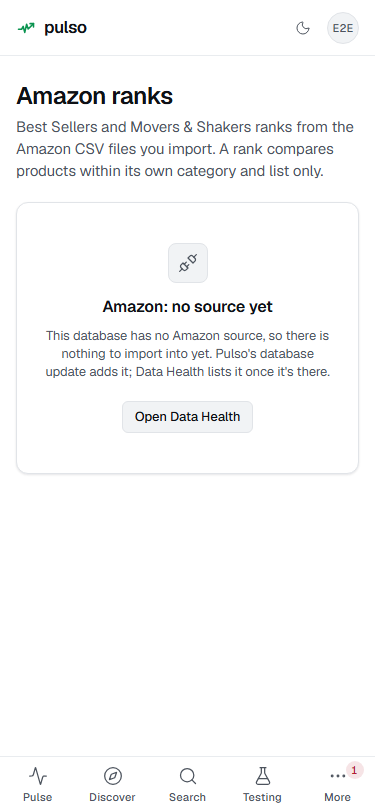
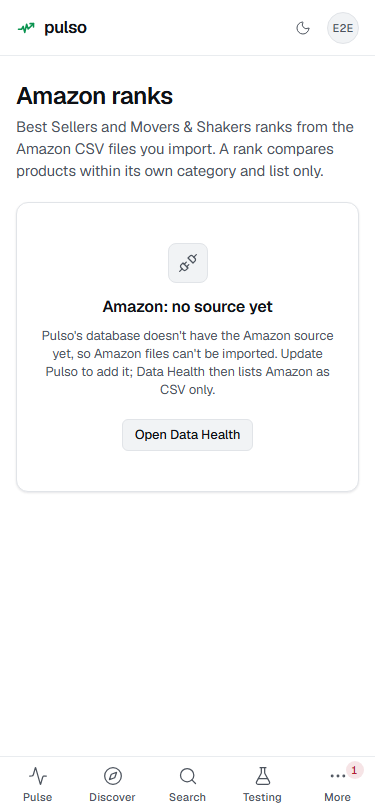
docs(p3-04): report checks after the rebase onto 60ba49d; no-source screenshots re-shot

Changed region(s): [[0.1173, 0.4002, 0.88, 0.5542]]

diff --git a/docs/reports/p3-04.md b/docs/reports/p3-04.md
@@ -26,7 +26,15 @@ Task `task_4c8b73c9065d` / `ctx_630116683c57`, branch `CodySpooner/p3-04-amazon-
 
 ## Checks
 
-CHECKS
+**After the rebase onto `60ba49d`** (p2-39's DEC-284 and p3-03 landed; the only conflict was `docs/DECISIONS.md`, both sides kept). With `TEST_DATABASE_URL` on a throwaway `pgvector/pgvector:0.8.7-pg18-trixie` container (`pulso-test-p3-04`, `127.0.0.1:55804`, database `pulso_test_p3_04`, removed afterwards):
+
+- full `uv run pytest` → **2,083 passed, 1 failed**: `test_api.py::test_openapi_export_deterministic` pins the operation count, 37 before this task; moved to 38 (`list_amazon_ranks`), then `test_api.py` → 43 passed. `test_amazon_ranks.py` → 15 passed; the provenance contract → 3 passed with `/v1/amazon` covered.
+- `uv run ruff check .`, `uv run ruff format --check .` → clean; `uv run mypy` and `uv run mypy --platform linux` → no issues in 214 source files; `alembic heads` → `0012` (no migration here).
+- `pnpm gen:api` → tree stays clean after the commit that regenerated `apps/api/openapi.json` and `schema.d.ts`.
+- `pnpm --filter web lint` and `pnpm --filter web typecheck` → exit 0; Vitest (all of `apps/web`) → 586 passed.
+- Playwright: `e2e/amazon` → 9 passed; screenshots → 28 passed (re-shot after the rebase; only the four no-source shots changed, from the copy fix); `sidebar-focus` and `palette` → passed (54 in that run, all green). A full chromium run after the rebase passed every test up to #310 of ~510 (`admin-ui` through `p2-39`, including `amazon`, `google-popular`, `discover`, `data-health`, `matching` and `mobile-nav`; 0 failures). Claude Code then stopped it because the machine ran low on memory, and every later test failed at 0 ms with the server gone. **Not re-run:** `palette-safe-area`, `press-and-exit`, `products/*`, `q2`, `reduced-motion`, `search`, `selection`, `settings`, `shell-scroll`, `touch-targets`. Before the rebase, `reduced-motion`, `shell-scroll`, `touch-targets`, `mobile-nav`, `app-ready` and `google-popular` passed with the nav entry in place (74 passed; the 6 `sidebar-focus` failures there are the `NAV_LINKS` pin below). CI covers the full suite.
+
+**Shared test pins this task moved:** `apps/web/src/lib/nav.test.ts` (the built set gains `/amazon`), `apps/web/e2e/sidebar-focus.spec.ts` (`NAV_LINKS` 21 → 22: its walk tabs through every nav link, so the 21-link walk stopped one short of UI gallery and failed 6 runs before the bump), `apps/api/tests/test_api.py` (38 operations), `apps/api/tests/test_provenance_contract.py` (`/v1/amazon` covered).
 
 **Mutations** (`apps/api/tests/test_amazon_ranks.py`, each restored afterwards):
 
